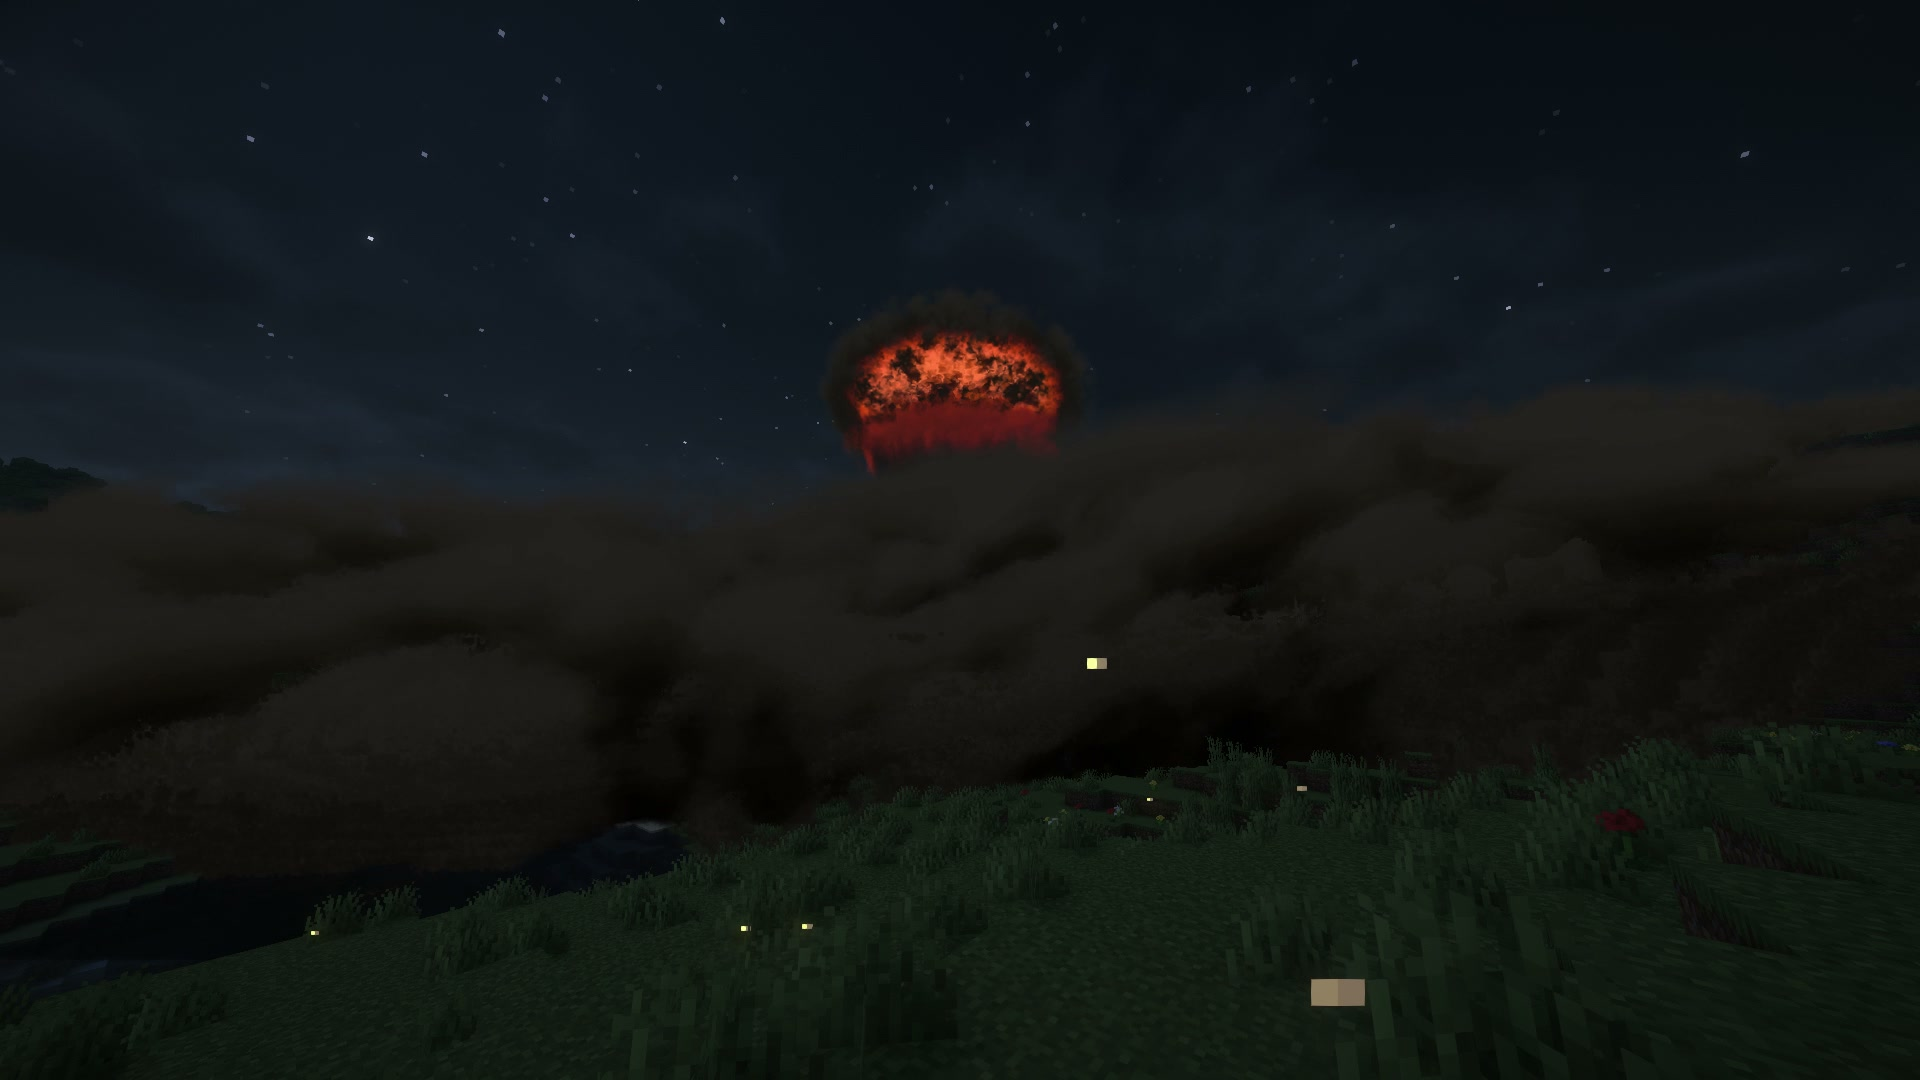
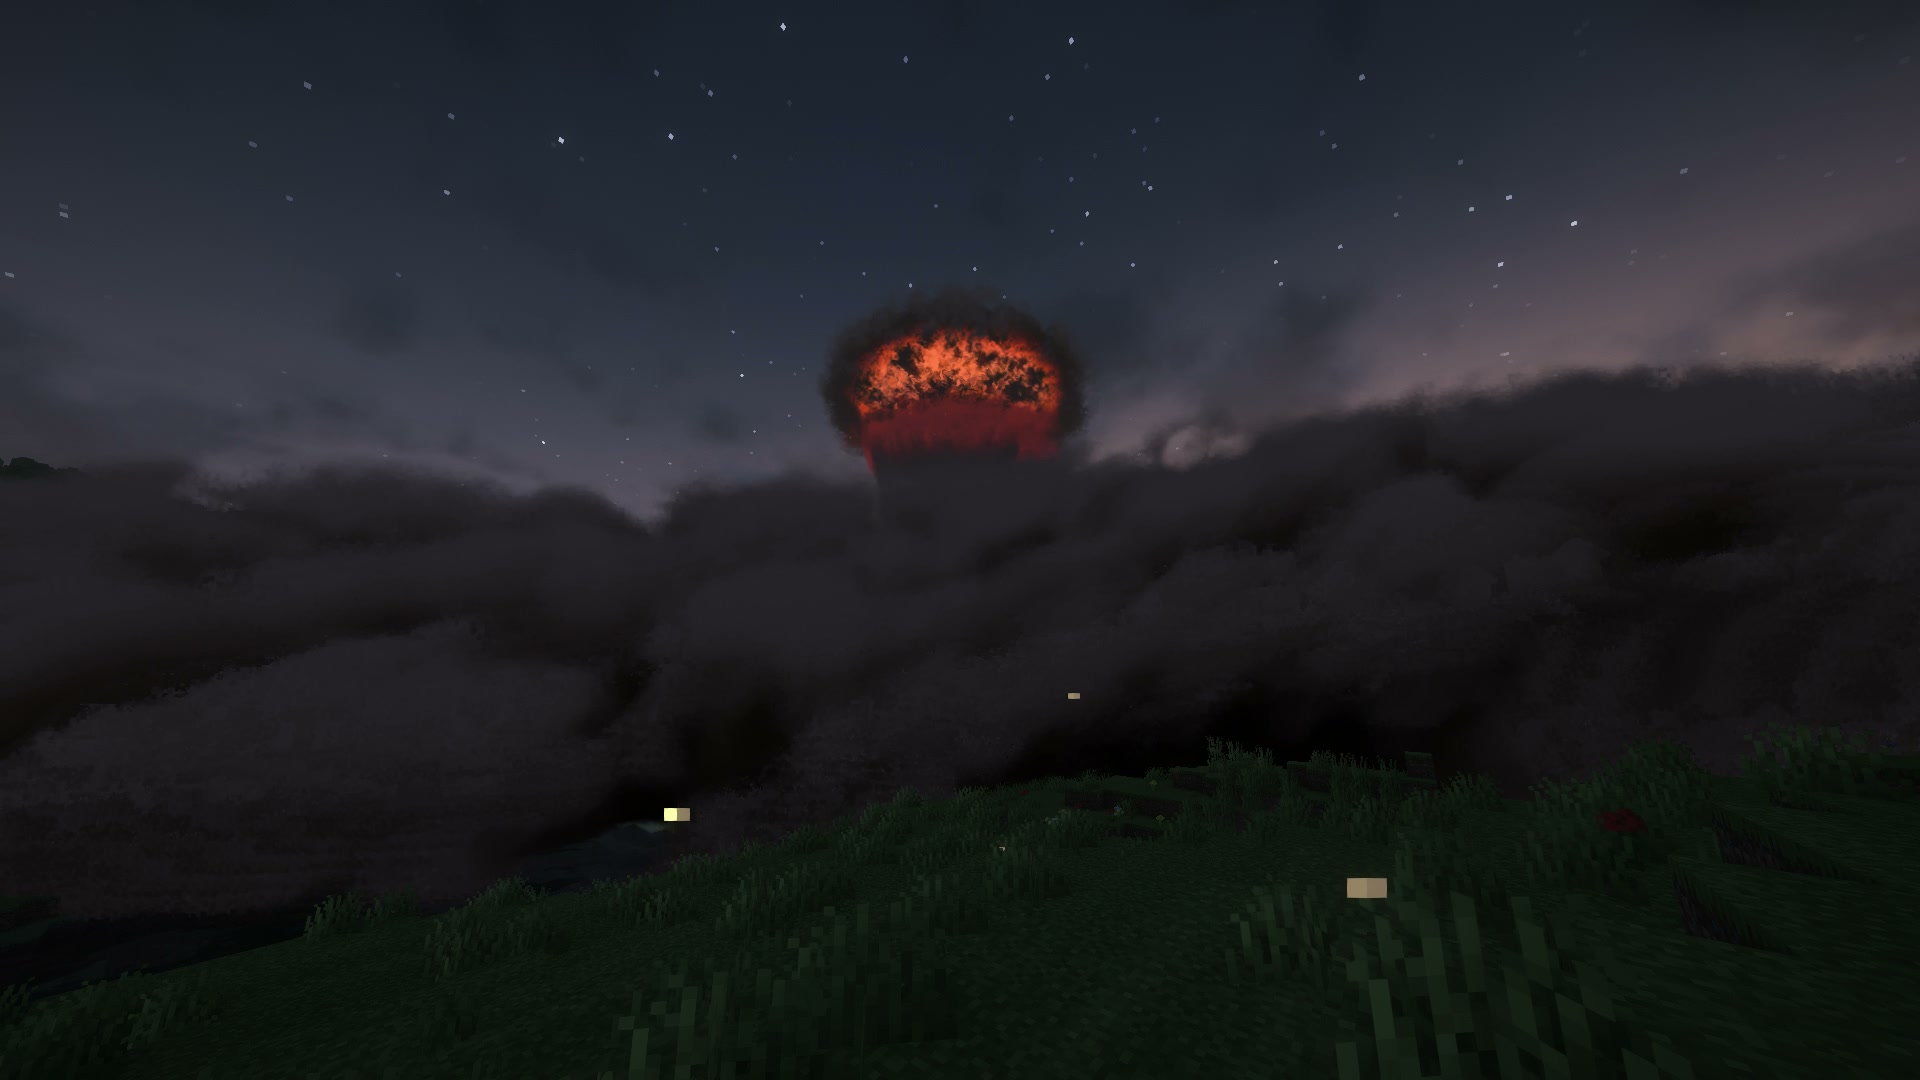
Show the selected dusk nuclear strike on the pages

diff --git a/docs/guide/ru/nuke.md b/docs/guide/ru/nuke.md
@@ -68,7 +68,7 @@
 
 ## Что будет
 
-![Вспышка наземного взрыва 6 кт в центре Newisle ночью, вид с земли](../img/nuke.jpg)
+![Вспышка наземного взрыва 6 кт в центре Newisle в сумерках, вид с земли](../img/nuke.jpg)
 
 Сирена заранее предупреждает игроков возле цели. Сначала вспышка, затем огненный шар поднимается и становится грибом.
 Волна проходит по земле, ломает здания и поднимает пыль. Звук приходит к тебе вместе с волной.
@@ -77,7 +77,7 @@
 Наземный взрыв оставляет воронку и радиоактивный след по ветру. Над водой вместо стены пыли поднимаются брызги.
 После вспышки всё ещё опасны ожоги, радиация и падающие обломки: оставайся в укрытии и следи за дозой.
 
-![Растущее облако наземного взрыва 6 кт в центре Newisle ночью, вид с земли](../img/nuke-cloud.jpg)
+![Растущее облако наземного взрыва 6 кт в центре Newisle в сумерках, вид с земли](../img/nuke-cloud.jpg)
 
 Distant Horizons и Voxy показывают разрушения, даже если ты не подходил к ним. Для МБР самая разрушенная область
 готовится ещё во время полёта; после других ядерных носителей дальний вид может обновиться позже. Выбитые окна и

diff --git a/docs/store/curseforge.ru.md b/docs/store/curseforge.ru.md
@@ -19,9 +19,9 @@ Incoming добавляет удары с воздуха со взрывами, 
 Вспышка, ударная волна, гриб, пожары и руины. Наземный взрыв оставляет воронку и радиоактивный след по ветру.
 Запускай МБР или ставь ядерную боеголовку на крылатую ракету либо бомбу B-2. По умолчанию доступны только операторам.
 
-![Наземный взрыв 6 кт ночью с неподвижной камеры у земли: вспышка, растущее облако и волна, накрывающая наблюдателя](https://raw.githubusercontent.com/zentixua/incoming/main/docs/media/nuke.webp)
+![Наземный взрыв 6 кт в сумерках с неподвижной камеры у земли: вспышка, растущее облако и волна, накрывающая наблюдателя](https://raw.githubusercontent.com/zentixua/incoming/main/docs/media/nuke.webp)
 
-![Растущее облако наземного взрыва 6 кт в центре Newisle ночью, вид с земли](https://raw.githubusercontent.com/zentixua/incoming/main/docs/guide/img/nuke-cloud.jpg)
+![Растущее облако наземного взрыва 6 кт в центре Newisle в сумерках, вид с земли](https://raw.githubusercontent.com/zentixua/incoming/main/docs/guide/img/nuke-cloud.jpg)
 
 ### Оружие
 

diff --git a/docs/store/description.ru.md b/docs/store/description.ru.md
@@ -19,9 +19,9 @@ Incoming добавляет удары с воздуха со взрывами, 
 Вспышка, ударная волна, гриб, пожары и руины. Наземный взрыв оставляет воронку и радиоактивный след по ветру.
 Запускай МБР или ставь ядерную боеголовку на крылатую ракету либо бомбу B-2. По умолчанию доступны только операторам.
 
-![Наземный взрыв 6 кт ночью с неподвижной камеры у земли: вспышка, растущее облако и волна, накрывающая наблюдателя](https://raw.githubusercontent.com/zentixua/incoming/main/docs/media/nuke.webp)
+![Наземный взрыв 6 кт в сумерках с неподвижной камеры у земли: вспышка, растущее облако и волна, накрывающая наблюдателя](https://raw.githubusercontent.com/zentixua/incoming/main/docs/media/nuke.webp)
 
-![Растущее облако наземного взрыва 6 кт в центре Newisle ночью, вид с земли](https://raw.githubusercontent.com/zentixua/incoming/main/docs/guide/img/nuke-cloud.jpg)
+![Растущее облако наземного взрыва 6 кт в центре Newisle в сумерках, вид с земли](https://raw.githubusercontent.com/zentixua/incoming/main/docs/guide/img/nuke-cloud.jpg)
 
 ### Оружие
 

diff --git a/docs/store/listing.md b/docs/store/listing.md
@@ -69,7 +69,7 @@ upload list records the terrain/recipe/craft integrations above.
 
 The Modrinth icon is `docs/media/icon.png` (512×512); the CurseForge avatar is `docs/media/icon-400.png` (400×400 PNG).
 The first screen uses the factory-strike animation (`docs/media/hero.webp`), a tagline and a three-sentence introduction.
-The effect and nuclear sections lead, followed by weapons and controls. A factory approach and impact, and a 6 kt night ground burst illustrate the effects.
+The effect and nuclear sections lead, followed by weapons and controls. A factory approach and impact, and a 6 kt ground burst at dusk illustrate the effects.
 Each refreshed animation is below 5 MB. Extra weapon screenshots are in the Gallery.
 There is no verified finished video URL, so the description has no video section or video placeholder.
 
@@ -78,7 +78,7 @@ The draft Modrinth gallery is in `modrinth.json`, in this order: four animations
 | File | Title | Description |
 |---|---|---|
 | `docs/media/hero.webp` | Factory strike (featured) | Cruise missiles fly in over the camera and hit a factory. |
-| `docs/media/nuke.webp` | Nuclear strike | Flash, mushroom cloud and the blast wave at night. |
+| `docs/media/nuke.webp` | Nuclear strike | Flash, mushroom cloud and the blast wave at dusk. |
 | `docs/guide/img/sam.webp` | Air defense | A SAM site shoots down a drone raid. |
 | `docs/guide/img/launcher.webp` | Missile launch | Cruise missiles take off from a runway. |
 | `docs/guide/img/weapon-shahed.jpg` | Shahed-136 | A drone on its way to the target. |

diff --git a/docs/guide/nuke.md b/docs/guide/nuke.md
@@ -73,7 +73,7 @@ A Geiger Counter in hand clicks and shows your dose. Operators give it out.
 
 ## What happens
 
-![Flash of a 6 kt ground burst in downtown Newisle at night, seen from ground level](img/nuke.jpg)
+![Flash of a 6 kt ground burst in downtown Newisle at dusk, seen from ground level](img/nuke.jpg)
 
 The siren warns players near the target. The flash comes first; the fireball rises into a mushroom cloud.
 Then the wave reaches the ground around it, breaking buildings and throwing up dust. The sound reaches you with the wave.
@@ -82,7 +82,7 @@ Fires and thick dust can make the area hard to see through long after the strike
 A ground burst leaves a crater and radioactive fallout downwind. Over water, spray takes the place of the dust wall.
 Burns, radiation and falling debris can still hurt you after the flash, so stay under cover and watch your dose.
 
-![Rising cloud from a 6 kt ground burst in downtown Newisle at night, seen from ground level](img/nuke-cloud.jpg)
+![Rising cloud from a 6 kt ground burst in downtown Newisle at dusk, seen from ground level](img/nuke-cloud.jpg)
 
 Distant Horizons and Voxy can show ruins without you visiting them. ICBM strikes prepare the hardest-hit area during
 flight; other nuclear carriers can take longer to update the distant view. Broken windows and fallen trees farther

diff --git a/docs/store/curseforge.md b/docs/store/curseforge.md
@@ -19,9 +19,9 @@ It includes six weapons, air defense and sirens, with a designator for choosing 
 Flash, blast wave, mushroom cloud, fires and ruins. Ground bursts leave a crater and fallout downwind.
 Launch an ICBM or fit a nuclear warhead to a cruise missile or B-2 bomb. Operator-only by default.
 
-![A 6 kt ground burst at night, seen from a fixed ground camera: flash, rising cloud and the wave reaching the observer](https://raw.githubusercontent.com/zentixua/incoming/main/docs/media/nuke.webp)
+![A 6 kt ground burst at dusk, seen from a fixed ground camera: flash, rising cloud and the wave reaching the observer](https://raw.githubusercontent.com/zentixua/incoming/main/docs/media/nuke.webp)
 
-![Rising cloud from a 6 kt ground burst in downtown Newisle at night, seen from ground level](https://raw.githubusercontent.com/zentixua/incoming/main/docs/guide/img/nuke-cloud.jpg)
+![Rising cloud from a 6 kt ground burst in downtown Newisle at dusk, seen from ground level](https://raw.githubusercontent.com/zentixua/incoming/main/docs/guide/img/nuke-cloud.jpg)
 
 ### Weapons
 

diff --git a/docs/store/description.md b/docs/store/description.md
@@ -19,9 +19,9 @@ It includes six weapons, air defense and sirens, with a designator for choosing 
 Flash, blast wave, mushroom cloud, fires and ruins. Ground bursts leave a crater and fallout downwind.
 Launch an ICBM or fit a nuclear warhead to a cruise missile or B-2 bomb. Operator-only by default.
 
-![A 6 kt ground burst at night, seen from a fixed ground camera: flash, rising cloud and the wave reaching the observer](https://raw.githubusercontent.com/zentixua/incoming/main/docs/media/nuke.webp)
+![A 6 kt ground burst at dusk, seen from a fixed ground camera: flash, rising cloud and the wave reaching the observer](https://raw.githubusercontent.com/zentixua/incoming/main/docs/media/nuke.webp)
 
-![Rising cloud from a 6 kt ground burst in downtown Newisle at night, seen from ground level](https://raw.githubusercontent.com/zentixua/incoming/main/docs/guide/img/nuke-cloud.jpg)
+![Rising cloud from a 6 kt ground burst in downtown Newisle at dusk, seen from ground level](https://raw.githubusercontent.com/zentixua/incoming/main/docs/guide/img/nuke-cloud.jpg)
 
 ### Weapons
 

diff --git a/README.md b/README.md
@@ -21,9 +21,9 @@ It includes six weapons, air defense and sirens, with a designator for choosing 
 Flash, blast wave, mushroom cloud, fires and ruins. Ground bursts leave a crater and fallout downwind.
 Launch an ICBM or fit a nuclear warhead to a cruise missile or B-2 bomb. Operator-only by default.
 
-![A 6 kt ground burst at twilight, seen from a fixed ground camera: flash, rising cloud and the wave reaching the observer](docs/media/nuke.webp)
+![A 6 kt ground burst at dusk, seen from a fixed ground camera: flash, rising cloud and the wave reaching the observer](docs/media/nuke.webp)
 
-![Rising cloud from a 6 kt ground burst in downtown Newisle at twilight, seen from ground level](docs/guide/img/nuke-cloud.jpg)
+![Rising cloud from a 6 kt ground burst in downtown Newisle at dusk, seen from ground level](docs/guide/img/nuke-cloud.jpg)
 
 ### Weapons
 
